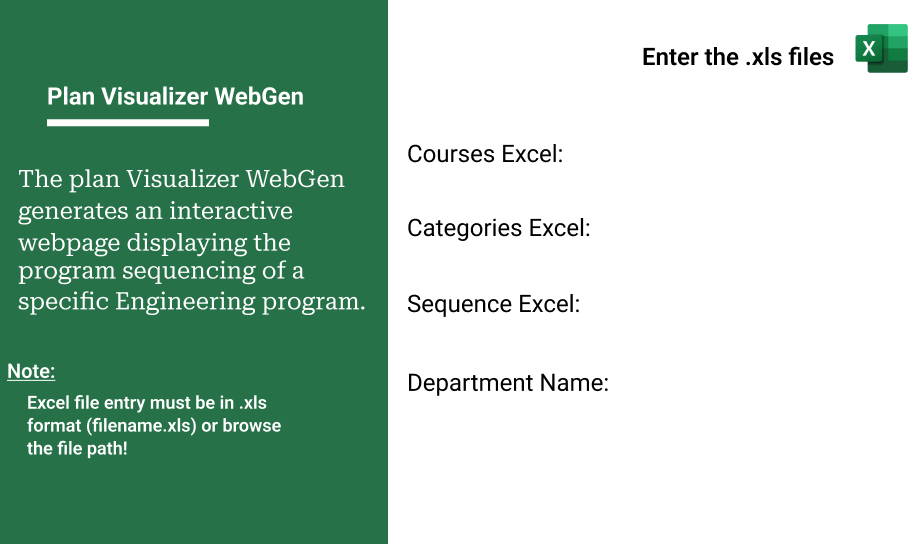
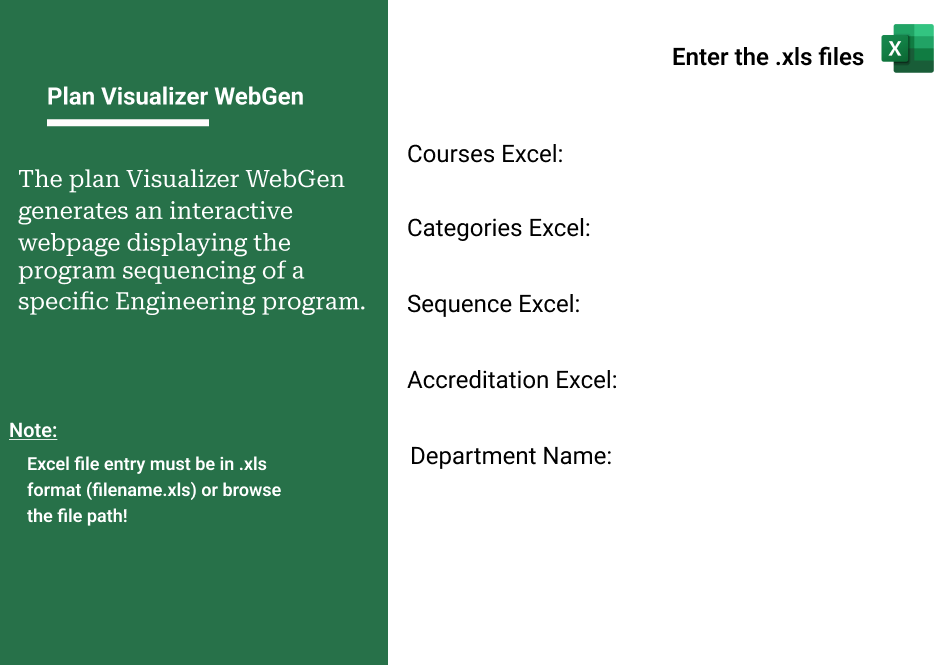
Added accreditation option and adjusted help menu

Changed region(s): [[0.0, 0.0, 0.674, 1.0], [0.0, 0.625, 0.3063, 0.8438], [0.7046, 0.0312, 1.0, 0.1562]]

diff --git a/src/main.py b/src/main.py
@@ -50,13 +50,13 @@ def debug(sequenceDict):
 window = Tk()
 window.title('Program Visualizer Generator')
 window.iconbitmap('output/images/favicon.ico')
-window.geometry("1092x544")
+window.geometry("1110x655")
 window.configure(bg = "#ffffff")
 canvas = Canvas(
     window,
     bg = "#ffffff",
-    height = 544,
-    width = 1092,
+    height = 665,
+    width = 1110,
     bd = 0,
     highlightthickness = 0,
     relief = "ridge")
@@ -73,12 +73,12 @@ def add_progbar():
     length=280
     )
     progbar.place(
-    x=635, y=470
+    x=661, y=560
     )
 
 
 def progress():
-    progbar['value']+= 8.5
+    progbar['value']+= 7.7
     window.update_idletasks()
     return progbar['value']
 
@@ -113,8 +113,11 @@ def websiteGeneration(value_label):
             # extracting dept name for program sequence
             deptName = department.get()
 
-            # parsing the excel file with accreditation unit info, file name hardcoded for now
-            courseparsing.parseAccred(courseDict, "./Input/AU_Count.xls", deptName)
+            # parsing the excel file with accreditation unit info
+            print("Parsing accreditation...")
+            value_label['text'] = 'parsing accreditation..'
+            courseparsing.parseAccred(courseDict, acc_excel.get(), deptName)
+            progress()
             
             # pulling the category and color info from excel
             print("Parsing categories...")
@@ -232,7 +235,7 @@ def writingHTML(soup):
 def main():
     add_progbar()
     value_label = Label(window, bg="white")
-    value_label.place(x=720, y= 495)
+    value_label.place(x=748, y= 585)
     try:
         soup = websiteGeneration(value_label)
         writingHTML(soup)
@@ -272,6 +275,11 @@ def seqBrowse():
     seq_excel.delete(0, END)
     seq_excel.insert(tkinter.END, filename) 
 
+def accBrowse():
+    filename =filedialog.askopenfilename()
+    acc_excel.delete(0, END)
+    acc_excel.insert(tkinter.END, filename) 
+
 def show(selection):
     department.delete(0, END)
     department.insert(tkinter.END, selection) 
@@ -279,7 +287,7 @@ def show(selection):
 #new window
 def new_window():
 
-    global new_img1, new_img2, new_img3, new_tutorial, new_web_img, new_header, new_footer
+    global new_img1, new_img2, new_img3,new_img4, new_tutorial, new_web_img, new_header, new_footer
     helpWin = Toplevel()
     helpWin.geometry('1400x700')
     helpWin.title("Manual")
@@ -340,31 +348,40 @@ def new_window():
     resized1 = excel_pic1.resize((100,100))
     new_img1 = ImageTk.PhotoImage(resized1)
     img_label = Label(second_frame,image=new_img1)
-    img_label.grid(row=3, column=0)
+    img_label.place(x=100, y=228)
 
     #categories.xls image
     excel_pic2 = Image.open("GUI_images/catexcel.png")
     resized2 = excel_pic2.resize((100,100))
     new_img2 = ImageTk.PhotoImage(resized2)
     img_label2 = Label(second_frame,image=new_img2)
-    img_label2.grid(row=3, column=1)
+    img_label2.place(x=500, y=228)
 
     #Sequencing.xls image
+    accreditation_img = Image.open("GUI_images/seqexcel.png")
+    resized_img = accreditation_img.resize((100,100))
+    new_img3 = ImageTk.PhotoImage(resized_img)
+    img_label4 = Label(second_frame,image=new_img3)
+    img_label4.grid(row=3, column=2, padx=150)
+
     tutorial_img = Image.open("GUI_images/seqexcel.png")
     resized_img = tutorial_img.resize((100,100))
-    new_img3 = ImageTk.PhotoImage(resized_img)
-    img_label3 = Label(second_frame,image=new_img3)
-    img_label3.grid(row=3, column=2, padx=150)
+    new_img4 = ImageTk.PhotoImage(resized_img)
+    img_label3 = Label(second_frame,image=new_img4)
+    img_label3.place(x=900, y= 228)
 
     #excel file description
     pic1_description = Label(second_frame, text="This Excel file must contain\nall individual course information.")
-    pic1_description.grid(row=4, column=0)
+    pic1_description.place(x=65, y=330)
 
     pic2_description = Label(second_frame, text="This Excel file must contain course categories\nand all courses that fall under each category.")
-    pic2_description.grid(row=4, column=1)
+    pic2_description.place(x=430, y=330)
 
     pic3_description = Label(second_frame, text="This Excel file must contain\nall possible plan sequences.")
-    pic3_description.grid(row=4, column=2)
+    pic3_description.place(x=880, y=330)
+
+    pic4_description = Label(second_frame, text="This Excel file must contain\nall accreditation unit info.")
+    pic4_description.grid(row=4, column=2)
 
     message3 = Label(second_frame, 
     text="3- Type in the Excel file name (if it's present in the same directory as the program files) or\n provide it's path:"
@@ -433,7 +450,7 @@ help_menu.add_command(
 ##Course Excel file UI##
 courseEntry_img = PhotoImage(file = f"GUI_images/img_textBox0.png")
 courseEntry_bg = canvas.create_image(
-    774.5, 152.5,
+    800.5, 151.5,
     image = courseEntry_img)
 
 courses_excel = Entry(
@@ -443,14 +460,14 @@ courses_excel = Entry(
     font='halvetica 12')
 courses_excel.insert(tkinter.END, "")
 courses_excel.place(
-    x = 635, y = 135,
+    x = 661, y = 134,
     width = 279,
     height = 33)
 
 ##Categories excel file UI##
 catEntry_img = PhotoImage(file = f"GUI_images/img_textBox1.png")
 catEntry_bg = canvas.create_image(
-    774.5, 229.5,
+    800.5, 226.5,
     image = catEntry_img)
 
 courseCat_excel = Entry(
@@ -460,14 +477,14 @@ courseCat_excel = Entry(
     font='halvetica 12')
 courseCat_excel.insert(tkinter.END, "")
 courseCat_excel.place(
-    x = 635, y = 212,
+    x = 661, y = 209,
     width = 279,
     height = 33)
 
 ##Sequencing excel file UI##
 seqEntry_img = PhotoImage(file = f"GUI_images/img_textBox2.png")
 seqEntry_bg = canvas.create_image(
-    774.5, 306.5,
+    800.5, 304.5,
     image = seqEntry_img)
 
 seq_excel = Entry(
@@ -477,14 +494,32 @@ seq_excel = Entry(
     font='halvetica 12')
 seq_excel.insert(tkinter.END, "")
 seq_excel.place(
-    x = 635, y = 289,
+    x = 661, y = 287,
     width = 279,
     height = 33)
 
+##Accreditation Excel file UI##
+accEntry_img = PhotoImage(file = f"GUI_images/img_textBox3.png")
+accEntry_bg = canvas.create_image(
+    800.5, 382.5,
+    image = accEntry_img)
+
+acc_excel = Entry(
+    bd = 0,
+    bg = "#d9d9d9",
+    highlightthickness = 0,
+    font='halvetica 12')
+acc_excel.insert(tkinter.END, "")
+acc_excel.place(
+    x = 661, y = 365,
+    width = 279,
+    height = 33)
+
+
 ##department name UI##
-deptEntry_img = PhotoImage(file = f"GUI_images/img_textBox3.png")
+deptEntry_img = PhotoImage(file = f"GUI_images/img_textBox4.png")
 deptEntry_bg = canvas.create_image(
-    774.5, 383.5,
+    800.5, 459.5,
     image = deptEntry_img)
 
 
@@ -495,7 +530,7 @@ department = Entry(
     font='halvetica 12')
 department.insert(tkinter.END, "")
 department.place(
-    x = 635, y = 366,
+    x = 661, y = 442,
     width = 279,
     height = 33)
 
@@ -516,12 +551,12 @@ deptMenu.add_radiobutton(label="Mechatronics Engineering", font='halvetica 12',c
 deptMenu.add_radiobutton(label="Mining Engineering", font='halvetica 12',command= lambda:show('Mining Engineering'))
 deptMenu.add_radiobutton(label="Petroleum Engineering", font='halvetica 12',command= lambda:show('Petroleum Engineering'))
 
-menubutton.place(x=954, y=366)
+menubutton.place(x=985, y=442)
 
 ##Background image##
 background_img = PhotoImage(file = f"GUI_images/background.png")
 background = canvas.create_image(
-    457.0, 272.0,
+    470.0, 332.5,
     image=background_img)
 
 ##Browse buttons##
@@ -534,7 +569,7 @@ button1_excel = Button(
     relief = "flat")
 
 button1_excel.place(
-    x = 950, y = 135,
+    x = 982, y = 134,
     width = 95,
     height = 37)
 
@@ -547,7 +582,7 @@ button2_excel = Button(
     relief = "flat")
 
 button2_excel.place(
-    x = 950, y = 214,
+    x = 982, y = 213,
     width = 95,
     height = 38)
 
@@ -560,7 +595,21 @@ button3_excel = Button(
     relief = "flat")
 
 button3_excel.place(
-    x = 950, y = 289,
+    x = 982, y = 288,
+    width = 95,
+    height = 37)
+
+
+browseImg4 = PhotoImage(file = f"GUI_images/img4.png")
+button4_excel = Button(
+    image = browseImg4,
+    borderwidth = 0,
+    highlightthickness = 0,
+    command = accBrowse,
+    relief = "flat")
+
+button4_excel.place(
+    x = 982, y = 365,
     width = 95,
     height = 37)
 
@@ -574,7 +623,7 @@ generate_button = Button(
     relief = "flat")
 
 generate_button.place(
-    x = 710, y = 415,
+    x = 738, y = 501,
     width = 126,
     height = 43)
 
